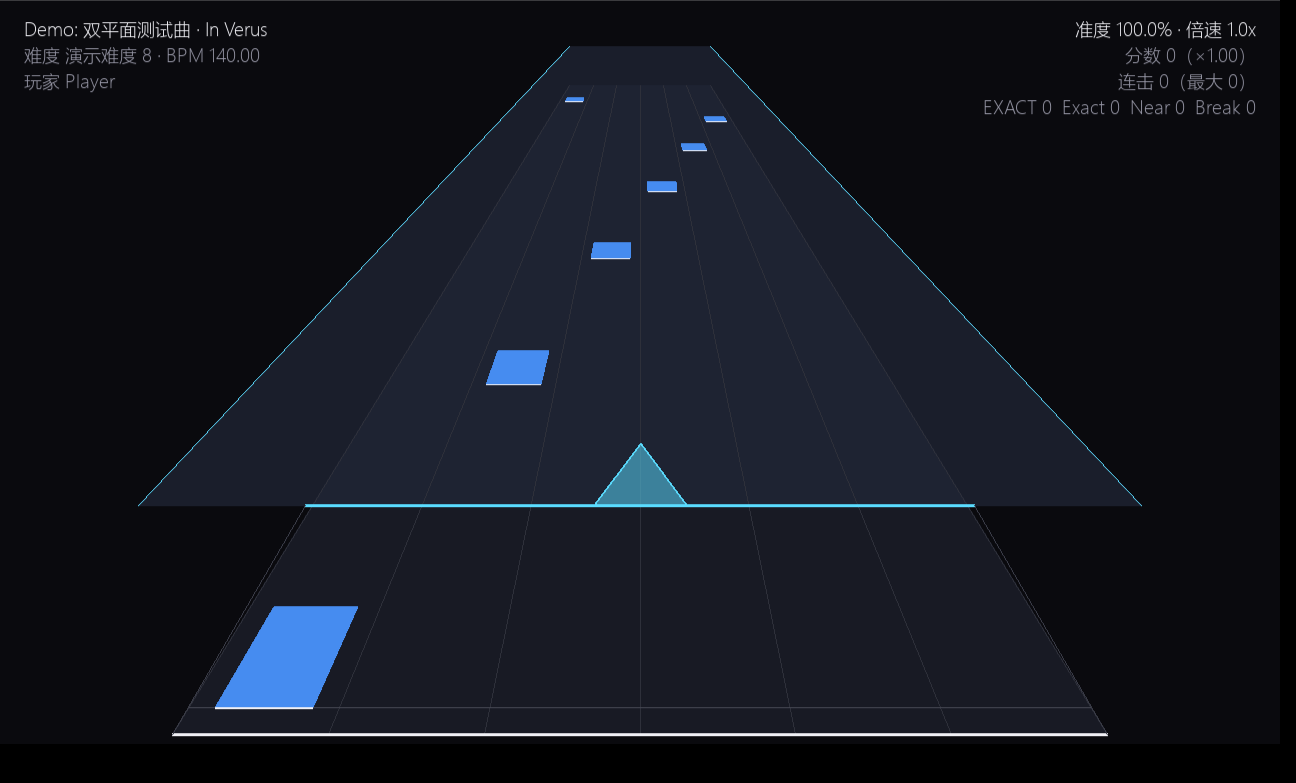
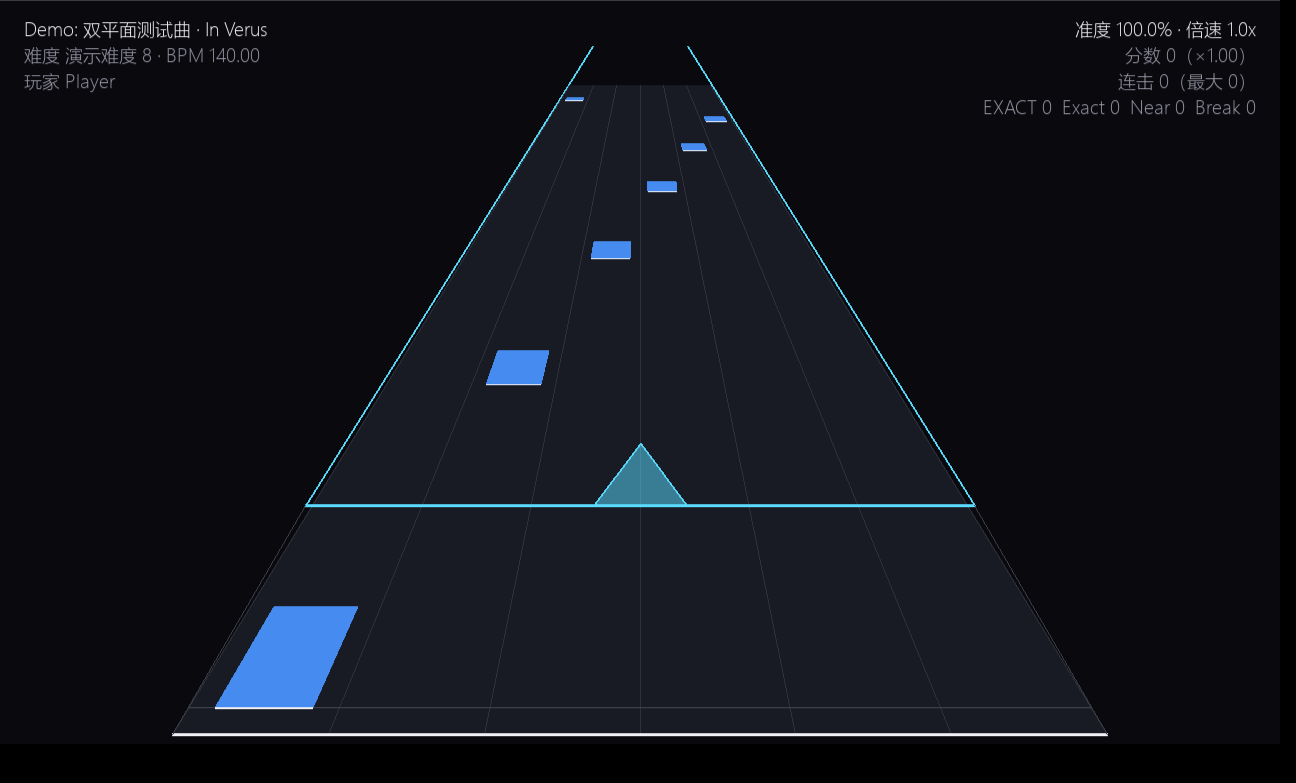
feat(player): 流速与倍速解耦；鼠标点击改中间厚两边薄的菱形+透明度渐变、左右键均可（滚轮不判）；鼠标平面只留合法区域边线；滑键判定登记 on_move 结果（修复无判定文字）

Changed region(s): [[0.0926, 0.0613, 0.8951, 0.6437]]

diff --git a/src/rhythm_editor/game/app.py b/src/rhythm_editor/game/app.py
@@ -1073,7 +1073,9 @@ class PlayerApp:
                 if event.key == key_code(name):
                     self.pressed_lanes.discard(lane)
         elif event.type == pygame.MOUSEBUTTONDOWN:
-            self._register(self.judge.on_press(self._now_ms(), x=self.mouse_norm))
+            # 鼠标点击按键：**左右键都可以**（滚轮 4/5 不算）
+            if event.button in (1, 3):
+                self._register(self.judge.on_press(self._now_ms(), x=self.mouse_norm))
 
     def _register(self, result) -> None:
         """记录一条判定：命中音效 + 在**被判定的那个物件处**飘字。"""
@@ -1123,7 +1125,8 @@ class PlayerApp:
             self.mouse_norm = self._mouse_norm()
             assert self.judge is not None
             now_ms = self._now_ms()
-            self.judge.on_move(now_ms, self.mouse_norm)
+            # 滑键是在鼠标移动时判定的：返回值必须登记，否则滑键没有判定文字 / 音效
+            self._register(self.judge.on_move(now_ms, self.mouse_norm))
             for result in self.judge.update(
                 now_ms, inside_hold=self._inside_region(now_ms), held=set(self.pressed_lanes)
             ):
@@ -1447,8 +1450,17 @@ class PlayerApp:
             width = max(1, int(round(width * scale / ref)))
         self._line(a, b, color, max(1, int(width)))
 
+    def _visible_span_ms(self) -> float:
+        """可视毫秒（物件从起点走到判定线所需的**歌曲毫秒**）。
+
+        「流速」应该是**视觉速度**：倍速只改变歌曲推进的快慢，不该让物件在屏幕上
+        慢慢爬或飞过去。判定时钟按倍速推进，所以这里的跨度也要乘倍速，
+        这样走完全程始终是 `可视毫秒 / 倍速` 的**同一段真实时间**。
+        """
+        return max(1.0, self.settings.scroll_ms * self.settings.rate)
+
     def _note_z(self, judge_ms: float, now_ms: float) -> float:
-        span = max(1.0, self.settings.scroll_ms)
+        span = self._visible_span_ms()
         return PlayerScene.note_z(1.0 - (judge_ms - now_ms) / span)
 
     def _draw_play(self) -> None:
@@ -1496,18 +1508,22 @@ class PlayerApp:
     def _draw_planes(self, now_ms: float) -> None:
         assert self.chart is not None
         width = LANE_COUNT * LANE_WIDTH
-        for y, tint in ((0.0, K6_TINT), (MOUSE_PLANE_HEIGHT, MOUSE_TINT)):
-            far_left = self._proj(K6_LEFT, y, START_Z)
-            far_right = self._proj(K6_LEFT + width, y, START_Z)
-            near_left = self._proj(K6_LEFT, y, 0.0)
-            near_right = self._proj(K6_LEFT + width, y, 0.0)
-            if y > 0.0:
-                # 鼠标平面在上方且更靠近镜头：半透明，免得挡住 6K 平面的远景
-                self._alpha_quad([far_left, far_right, near_right, near_left], (34, 40, 58), 170)
-            else:
-                self._quad([far_left, far_right, near_right, near_left], (24, 26, 36))
-            self._line(far_left, near_left, tint, 1)
-            self._line(far_right, near_right, tint, 1)
+        # 6K 平面：底色 + 左右边线
+        far_left = self._proj(K6_LEFT, 0.0, START_Z)
+        far_right = self._proj(K6_LEFT + width, 0.0, START_Z)
+        near_left = self._proj(K6_LEFT, 0.0, 0.0)
+        near_right = self._proj(K6_LEFT + width, 0.0, 0.0)
+        self._quad([far_left, far_right, near_right, near_left], (24, 26, 36))
+        self._line(far_left, near_left, K6_TINT, 1)
+        self._line(far_right, near_right, K6_TINT, 1)
+        # 鼠标平面：**不画背景**，只保留合法区域左右边线（x = ±0.5）
+        for x in (MOUSE_LEFT, MOUSE_LEFT + MOUSE_LEGAL_WIDTH):
+            self._line(
+                self._proj(x, MOUSE_PLANE_HEIGHT, START_Z),
+                self._proj(x, MOUSE_PLANE_HEIGHT, 0.0),
+                MOUSE_TINT,
+                2,
+            )
         for lane in range(LANE_COUNT + 1):
             x = K6_LEFT + lane * LANE_WIDTH
             self._line(self._proj(x, 0.0, START_Z), self._proj(x, 0.0, 0.0), (46, 48, 58), 1)
@@ -1543,7 +1559,7 @@ class PlayerApp:
         # 6K 平面只画小节线（不画更细的节拍线）
         timing = self.chart.timing
         beat = timing.song_ms_to_beat(max(0.0, now_ms))
-        span_beats = max(0.5, self.settings.scroll_ms / 1000.0 * timing.bpm_at(beat) / 60.0)
+        span_beats = max(0.5, self._visible_span_ms() / 1000.0 * timing.bpm_at(beat) / 60.0)
         for line in timing.bar_lines(beat, beat + span_beats):
             z = self._note_z(timing.beat_to_song_ms(line), now_ms)
             if 0.0 <= z <= START_Z:
@@ -1706,43 +1722,56 @@ class PlayerApp:
                     alpha,
                 )
             return
-        else:
-            assert isinstance(note, MouseClick)
-            lo, hi = note.x_range()
-            color = (235, 90, 80)
-            height = self.settings.click_thickness
+        assert isinstance(note, MouseClick)
+        lo, hi = note.x_range()
+        color = (235, 90, 80)
+        height = self.settings.click_thickness
         x0 = MOUSE_LEFT + min(lo, hi) * MOUSE_LEGAL_WIDTH
         x1 = MOUSE_LEFT + max(lo, hi) * MOUSE_LEGAL_WIDTH
-        top = MOUSE_PLANE_HEIGHT + height
-        middle = (MOUSE_PLANE_HEIGHT + top) / 2
-        self._alpha_quad(
-            [
-                self._proj(x0, MOUSE_PLANE_HEIGHT, z),
-                self._proj(x1, MOUSE_PLANE_HEIGHT, z),
-                self._proj(x1, top, z),
-                self._proj(x0, top, z),
-            ],
-            color,
-            132,
+        middle = MOUSE_PLANE_HEIGHT + height / 2.0
+        # 形状是**中间厚、两边薄的菱形**，并且透明度一起渐变（中间实、两端淡）
+        span_px = abs(
+            self._proj(x1, MOUSE_PLANE_HEIGHT, z)[0]
+            - self._proj(x0, MOUSE_PLANE_HEIGHT, z)[0]
         )
-        # 鼠标点击按键：所有线都用红色（横线 + 两侧竖线）
-        line_color = (255, 70, 60)
-        self._line(self._proj(x0, middle, z), self._proj(x1, middle, z), line_color, 2)
-        if isinstance(note, MouseClick):
-            # 两侧竖线 + 中央菱形，高度都是 0.03 单位
-            self._line(self._proj(x0, MOUSE_PLANE_HEIGHT, z), self._proj(x0, top, z), line_color, 2)
-            self._line(self._proj(x1, MOUSE_PLANE_HEIGHT, z), self._proj(x1, top, z), line_color, 2)
-            cx = MOUSE_LEFT + note.center * MOUSE_LEGAL_WIDTH
-            d = NOTE_HEIGHT_UNIT / 2
-            self._quad(
+        steps = max(12, min(64, int(span_px / 3.0) + 1))
+        alpha_edge, alpha_mid = 40, 226
+        for index in range(steps):
+            t0 = index / steps
+            t1 = (index + 1) / steps
+            xa = x0 + (x1 - x0) * t0
+            xb = x0 + (x1 - x0) * t1
+            la = 1.0 - abs(2.0 * t0 - 1.0)        # 中点 1、两端 0 -> 菱形轮廓
+            lb = 1.0 - abs(2.0 * t1 - 1.0)
+            half_a = max(0.0004, height / 2.0 * la)
+            half_b = max(0.0004, height / 2.0 * lb)
+            alpha = int(round(alpha_edge + (alpha_mid - alpha_edge) * (la + lb) / 2.0))
+            self._alpha_quad(
                 [
-                    self._proj(cx - d, middle, z),
-                    self._proj(cx, middle + d, z),
-                    self._proj(cx + d, middle, z),
-                    self._proj(cx, middle - d, z),
+                    self._proj(xa, middle - half_a, z),
+                    self._proj(xb, middle - half_b, z),
+                    self._proj(xb, middle + half_b, z),
+                    self._proj(xa, middle + half_a, z),
                 ],
-                (255, 60, 50),
+                color,
+                alpha,
             )
+        # 中间横线：与键盘点击物件的横线一致（红色）
+        self._line(
+            self._proj(x0, middle, z), self._proj(x1, middle, z), (255, 70, 60), 2
+        )
+        # 中央实心菱形标记（固定大小，不随按键尺寸变化）
+        cx = MOUSE_LEFT + note.center * MOUSE_LEGAL_WIDTH
+        d = NOTE_HEIGHT_UNIT / 2
+        self._quad(
+            [
+                self._proj(cx - d, middle, z),
+                self._proj(cx, middle + d, z),
+                self._proj(cx + d, middle, z),
+                self._proj(cx, middle - d, z),
+            ],
+            (255, 60, 50),
+        )
 
     def _mouse_marker_points(self, norm_x: float):
         """指针三角形的三个点（躺在鼠标平面内、矮胖）。"""

diff --git a/tests/test_game_app.py b/tests/test_game_app.py
@@ -684,15 +684,26 @@ class PlayerAppSmokeTests(unittest.TestCase):
 
         click = next(n for n in chart.all_notes() if isinstance(n, MouseClick))
         lines = []
+        fills = []
+        original_alpha2 = app._alpha_quad
         app._line = lambda a, b, color, width=2: lines.append(color)
+        app._alpha_quad = lambda points, color, alpha: fills.append(alpha)
         try:
             app._draw_pattern(click, app._head_ms(click))
         finally:
             app._line = original_line
+            app._alpha_quad = original_alpha2
         self.assertTrue(lines)
         for color in lines:
             self.assertGreater(color[0], 200, "鼠标点击按键的线应该是红色")
             self.assertLess(color[1], 130)
+        # 中间厚、两边薄的菱形 + 透明度渐变
+        self.assertGreater(len(fills), 8, "点击按键切成细条做渐变")
+        middle = fills[len(fills) // 2]
+        self.assertGreater(middle, fills[0], "中间更实、两端更淡")
+        self.assertGreater(middle, fills[-1])
+        self.assertGreaterEqual(middle, 220)
+        self.assertLessEqual(max(fills[0], fills[-1]), 60)
 
         # 鼠标指针（三角形）躺在物件运动的水平面内
         points = []
@@ -796,6 +807,115 @@ class PlayerAppSmokeTests(unittest.TestCase):
             self.assertAlmostEqual(drawn[3], 1.3, delta=1e-6, msg="实际位置也画出来")
         finally:
             app._alpha_quad, app._proj = original_alpha, original_proj
+
+    def test_flow_speed_is_independent_of_rate(self) -> None:
+        """流速（可视毫秒）不受倍速影响：物件的**视觉移动速度**始终一致。"""
+        from rhythm_editor.game.scene import START_Z
+
+        app = self.app
+        scroll = app.settings.scroll_ms          # 流速 1.0 -> 1500ms
+        for rate in (1.0, 0.5, 0.1, 3.0):
+            app.settings.rate = rate
+            self.assertAlmostEqual(
+                app._visible_span_ms(), scroll * rate, places=6, msg="可视跨度按倍速缩放"
+            )
+            # 走完整个可视跨度需要同样的**真实时间**：跳 z=START_Z 时正好是 span 之前
+            self.assertAlmostEqual(app._note_z(scroll * rate, 0.0), START_Z, places=6)
+            self.assertAlmostEqual(app._note_z(scroll * rate / 2, 0.0), START_Z / 2, places=6)
+            self.assertAlmostEqual(app._note_z(0.0, 0.0), 0.0, places=6)
+        app.settings.rate = 1.0
+        self.assertAlmostEqual(app._visible_span_ms(), scroll, places=6)
+
+    def test_mouse_click_accepts_left_and_right_only(self) -> None:
+        """鼠标点击按键左右键都能判，滚轮（4/5）不算。"""
+        from rhythm_editor.game.judge import Judge
+        from rhythm_editor.model.notes import MouseClick
+
+        app = self.app
+        app._enter_loading()
+        chart = app.chart
+        app._start_play()
+        click = next(n for n in chart.all_notes() if isinstance(n, MouseClick))
+        pygame = self.pygame
+        for button in (1, 3):
+            app.judge = Judge(chart)                     # 每个键位用干净状态各测一次
+            app._now_ms = lambda: chart.timing.beat_to_song_ms(click.head_beat)
+            app.mouse_norm = click.center
+            app._event_play(
+                pygame.event.Event(pygame.MOUSEBUTTONDOWN, button=button, pos=(400, 300))
+            )
+            self.assertEqual(app.judge.judged_notes, 1, f"button {button} 应该能判")
+        app.judge = Judge(chart)
+        app._event_play(
+            pygame.event.Event(pygame.MOUSEBUTTONDOWN, button=4, pos=(400, 300))
+        )
+        self.assertEqual(app.judge.judged_notes, 0, "滚轮不该判定")
+
+    def test_mouse_plane_has_only_legal_area_side_lines(self) -> None:
+        """鼠标平面不画背景，只画合法区域（±0.5）的左右边线。"""
+        from rhythm_editor.game.app import MOUSE_LEFT, MOUSE_PLANE_HEIGHT
+        from rhythm_editor.game.scene import K6_LEFT, MOUSE_LEGAL_WIDTH, START_Z
+
+        app = self.app
+        app._enter_loading()
+        app._start_play()
+        app.settings.rate = 1.0
+        quads = []
+        lines = []
+        original_quad, original_line = app._quad, app._line
+        app._quad = lambda points, color: quads.append(points)
+        app._line = lambda a, b, color, width=2: lines.append((a, b))
+        try:
+            app._draw_planes(0.0)
+        finally:
+            app._quad, app._line = original_quad, original_line
+        # 合法区域两侧各有一条边线（从起点一直到判定平面）
+        for edge in (MOUSE_LEFT, MOUSE_LEFT + MOUSE_LEGAL_WIDTH):
+            far = app._proj(edge, MOUSE_PLANE_HEIGHT, START_Z)
+            near = app._proj(edge, MOUSE_PLANE_HEIGHT, 0.0)
+            self.assertTrue(
+                any(
+                    abs(a[0] - far[0]) < 2 and abs(b[0] - near[0]) < 2 for a, b in lines
+                ),
+                "合法区域边界要有边线",
+            )
+        # 鼠标平面不该有底色四边形：默认（侧轨高亮关闭）只剩 6K 平面那一个
+        self.assertEqual(len(quads), 1, "鼠标平面不再画背景")
+        self.assertAlmostEqual(K6_LEFT, -0.75, places=6)
+
+    def test_slide_judgement_shows_text_and_sound(self) -> None:
+        """滑键判定要出判定文字（回归：以前 on_move 的返回值被丢掉，滑键没有飘字）。"""
+        from rhythm_editor.model.notes import MouseSlide
+
+        app = self.app
+        app._enter_loading()
+        chart = app.chart
+        app._start_play()
+        slide = next(n for n in chart.all_notes() if isinstance(n, MouseSlide))
+        hit_ms = chart.timing.beat_to_song_ms(slide.beat)
+        app._now_ms = lambda: hit_ms
+        lo, hi = slide.x_range()
+        outside = max(0.0, min(lo, hi) - 0.06)
+        inside = (min(lo, hi) + max(lo, hi)) / 2.0
+        app._mouse_norm = lambda: outside
+        plays = []
+        original = app.hits.play_hit
+        app.hits.play_hit = lambda: plays.append(1)
+        try:
+            app._update(1 / 120)             # 先让 judge 采一次鼠标位置
+            app.popups.clear()               # 前面那些“漏掉”的 Break 飘字不算
+            plays.clear()
+            # 鼠标移进滑键范围 -> 触发滑键判定
+            app._mouse_norm = lambda: inside
+            app._update(1 / 120)
+        finally:
+            app.hits.play_hit = original
+        self.assertTrue(app.popups, "滑键判定要有飘字")
+        grade, text, _left, x, y = app.popups[-1]
+        self.assertEqual(grade, text)
+        self.assertIn(grade, ("EXACT", "Exact", "Near"))
+        self.assertGreater(y, 0.0)
+        self.assertEqual(len(plays), 1, "滑键命中也应该响打击音")
 
 
 if __name__ == "__main__":

diff --git a/docs/VERIFICATION.md b/docs/VERIFICATION.md
@@ -113,7 +113,7 @@ python tools/check_audio.py
 
 | 项目 | 命令 | 结果 |
 | --- | --- | --- |
-| 单元测试（含 Tk 画布冒烟测试、应用级测试与游玩器测试） | `python -m unittest discover -s tests -t .` | Ran 325 tests — **OK**（含滑键渐变 / 结算显示倍速） |
+| 单元测试（含 Tk 画布冒烟测试、应用级测试与游玩器测试） | `python -m unittest discover -s tests -t .` | Ran 329 tests — **OK**（含滑键渐变 / 结算显示倍速 / 流速与倍速解耦 / 滑键判定文字） |
 | 需求验收清单 | `python tools/acceptance.py` | 18 项全部 `[OK ]`，结论：全部通过（含游玩器 4 项） |
 | 音频后端 | `python tools/check_audio.py` | 9 项全部 `[OK ]`（pygame.mixer 真实播放，延迟补偿正确） |
 | 示例谱面生成 | `python run_editor.py --make-demo` | 生成 `charts/demo/demo.json`（6K 32 / 区域 3 / 滑键 6 / 点击按键 4 / 4 个速度组） |
@@ -212,7 +212,7 @@ python tools/check_audio.py
 | `tests/test_game_judge.py`（26 条） | 游玩器判定：EXACT/Exact/Near/Break 窗口、空敲无惩罚、一次按键只判一个、**输入类型必须匹配（6K 键只判 6K、鼠标点击只判鼠标点击按键）**、滑键吸附最好等级、空域半拍区间、长按“抬起事件 + 末 50ms 宽限（跨区间）”、多轨长按“所有行同时抬起才算抬起”、准度与分数公式、分数 × 倍速^1.5、连击与最大连击 |
 | `tests/test_game_scene.py`（9 条） | 游玩器 3D 布局：1 单位 = 鼠标合法区宽 = 6K 中间四轨；鼠标平面高 0.4；两条判定线位置；近大远小；起点在屏幕上方；**游玩区铺满窗口（竖直 ≥85%、水平居中、换尺寸重算）** |
 | `tests/test_game_settings.py`（9 条） | 游玩器设置：默认键位、范围夹取、**流速 ↔ 可视毫秒（1500/n）与老 `scroll_ms` 迁移**、键位补齐、全局读写与损坏回退、最近打开列表去重与上限、渲染后端设置（含非法值回退） |
-| `tests/test_game_app.py`（33 条） | 游玩器 GUI 冒烟（headless）：主界面 → 加载 → 游玩 → 结算、鼠标映射、设置全局保存、轨道高亮与判定飘字、音量与暂停、谱面列表元数据与最近打开、渲染后端切换与回退、倍速（含上限 3x 与分数 ×3^1.5）、charts/ “每个含 json 的文件夹算一张谱面”、没有谱面时也能进设置、打开其他路径的 JSON、判定时刻过去的物件不再绘制、首拍 1.5 秒引导且音乐同步、文本输入走 TEXTINPUT / 键位按键捕获、鼠标可操作主界面 / 设置 / 结算、轨道键优先于界面快捷键（空格 = 第 6 轨）、GL 呈现异常时自动回退软件渲染、`--software` 命令行强制后端、流速行 − ● +、四种物件厚度互相独立、结算页 1/3 + 2/3、窗口尺寸变化不重建显示表面 + F10 / F11、远于可视范围的物件不绘制、每帧 poll 音频后端、短暂无声不立刻结束、远白线更细（透视缩放）、判定字符出现在被判定的物件处（含瞬时物件）、滑键朝向侧更厚更实且无白线 + 鼠标点击按键线全红 + 鼠标指针躺在鼠标平面内且矮胖、结算最大连击 x / 总数 + 得分倍率、F11 循环 窗口 / 无边框全屏 / 独占全屏、**鼠标指针实心 / 边线规则（无界永远实心；关闭时界内实心、出界则判定位置实心 + 实际位置边线）** |
+| `tests/test_game_app.py`（37 条） | 游玩器 GUI 冒烟（headless）：主界面 → 加载 → 游玩 → 结算、鼠标映射、设置全局保存、轨道高亮与判定飘字、音量与暂停、谱面列表元数据与最近打开、渲染后端切换与回退、倍速（含上限 3x 与分数 ×3^1.5）、charts/ “每个含 json 的文件夹算一张谱面”、没有谱面时也能进设置、打开其他路径的 JSON、判定时刻过去的物件不再绘制、首拍 1.5 秒引导且音乐同步、文本输入走 TEXTINPUT / 键位按键捕获、鼠标可操作主界面 / 设置 / 结算、轨道键优先于界面快捷键（空格 = 第 6 轨）、GL 呈现异常时自动回退软件渲染、`--software` 命令行强制后端、流速行 − ● +、四种物件厚度互相独立、结算页 1/3 + 2/3、窗口尺寸变化不重建显示表面 + F10 / F11、远于可视范围的物件不绘制、每帧 poll 音频后端、短暂无声不立刻结束、远白线更细（透视缩放）、判定字符出现在被判定的物件处（含瞬时物件）、**滑键渐变 + 鼠标点击菱形渐变（中间最厚最实、两端尖而淡）+ 线全红 + 鼠标指针躺在鼠标平面内且矮胖**、结算最大连击 x / 总数 + 倍速、F11 循环 窗口 / 无边框全屏 / 独占全屏、鼠标指针实心 / 边线规则、滑键厚度与透明度渐变、流速与倍速解耦（1x/0.5x/0.1x/3x 跨度一致）、鼠标点击左右键可判 / 滚轮不判、鼠标平面只画合法区域边线（无背景）、滑键判定有飘字与打击音（回归） |
 
 | 低倍速实测（真实音频，跑真机 20 秒） | 0.5x / 0.1x 下逐帧 `_update` + `audio.poll()` | 0.5x：真实 20s → 歌曲 9.76s、`playing=True` 全程；0.1x：真实 12s → 歌曲 1.15s、`playing=True`；修复前只播完第一段窗口就停 |
 | 慢放接力实测（真实音频） | 0.5x 跑 20 秒并记录 `Channel.get_sound()` 顺序 | 交出 `(0,4000)(4000,8000)(8000,12000)(12000,16000)`，实播 `(0,4000)@0s → (4000,8000)@8.04s → (8000,12000)@16.03s`，**没有被顶掉的窗口** |

diff --git a/CHANGELOG.md b/CHANGELOG.md
@@ -1,5 +1,22 @@
 # 更新日志
 
+## 0.3.13 — 流速与倍速解耦 / 鼠标点击样式与左右键 / 鼠标平面只留边线 / 滑键判定文字
+
+* **流速不再被倍速影响**：判定时钟按倍速推进，而可视跨度原本固定，于是 0.5x 时物件在屏幕上
+  爬得只有一半快。现在 `_visible_span_ms() = 可视毫秒 × 倍速`，走完全程始终是同一段真实时间
+  （1x / 0.5x / 0.1x / 3x 实测跨度分别为 1500 / 750 / 150 / 4500 歌曲毫秒），
+  小节线的可见范围也用同一个跨度。
+* **鼠标点击按键左右键均可**：显式接受左键（1）与右键（3）；滚轮（4/5）不再误判。
+* **鼠标平面不再画背景**：去掉那层半透明底，只保留**合法区域左右边线**
+  （x = ±0.5 的边界，从起点一直拉到判定平面），6K 平面不受影响。
+* **修复滑键没有判定文字**：滑键是在鼠标移动时判定的，而 `judge.on_move()` 的返回值
+  （判定结果）以前被直接丢掉 —— 于是滑键既没有飘字也没有打击音。现在照常登记，
+  实测滑键命中会出 EXACT/Exact/Near 飘字并响一声。
+* **鼠标点击按键改成“中间厚、两边薄的菱形”**：沿判定范围切成细条，**高度与透明度一起渐变**
+  （中点最厚、不透明度 226/255，两端收成尖角、40/255），保留中间红色横线
+  （与键盘点击物件一致）与中央固定大小的实心红菱形标记；
+  两侧竖线随菱形收尖自然消失（原来那两条线的位置现在就是菱形的两个尖角）。
+
 ## 0.3.12 — 滑键透明度渐变 + 结算显示倍速
 
 * **滑键透明度真正做成渐变**：以前只有两层（底 96 / 朝向侧 232），现在沿滑动方向
